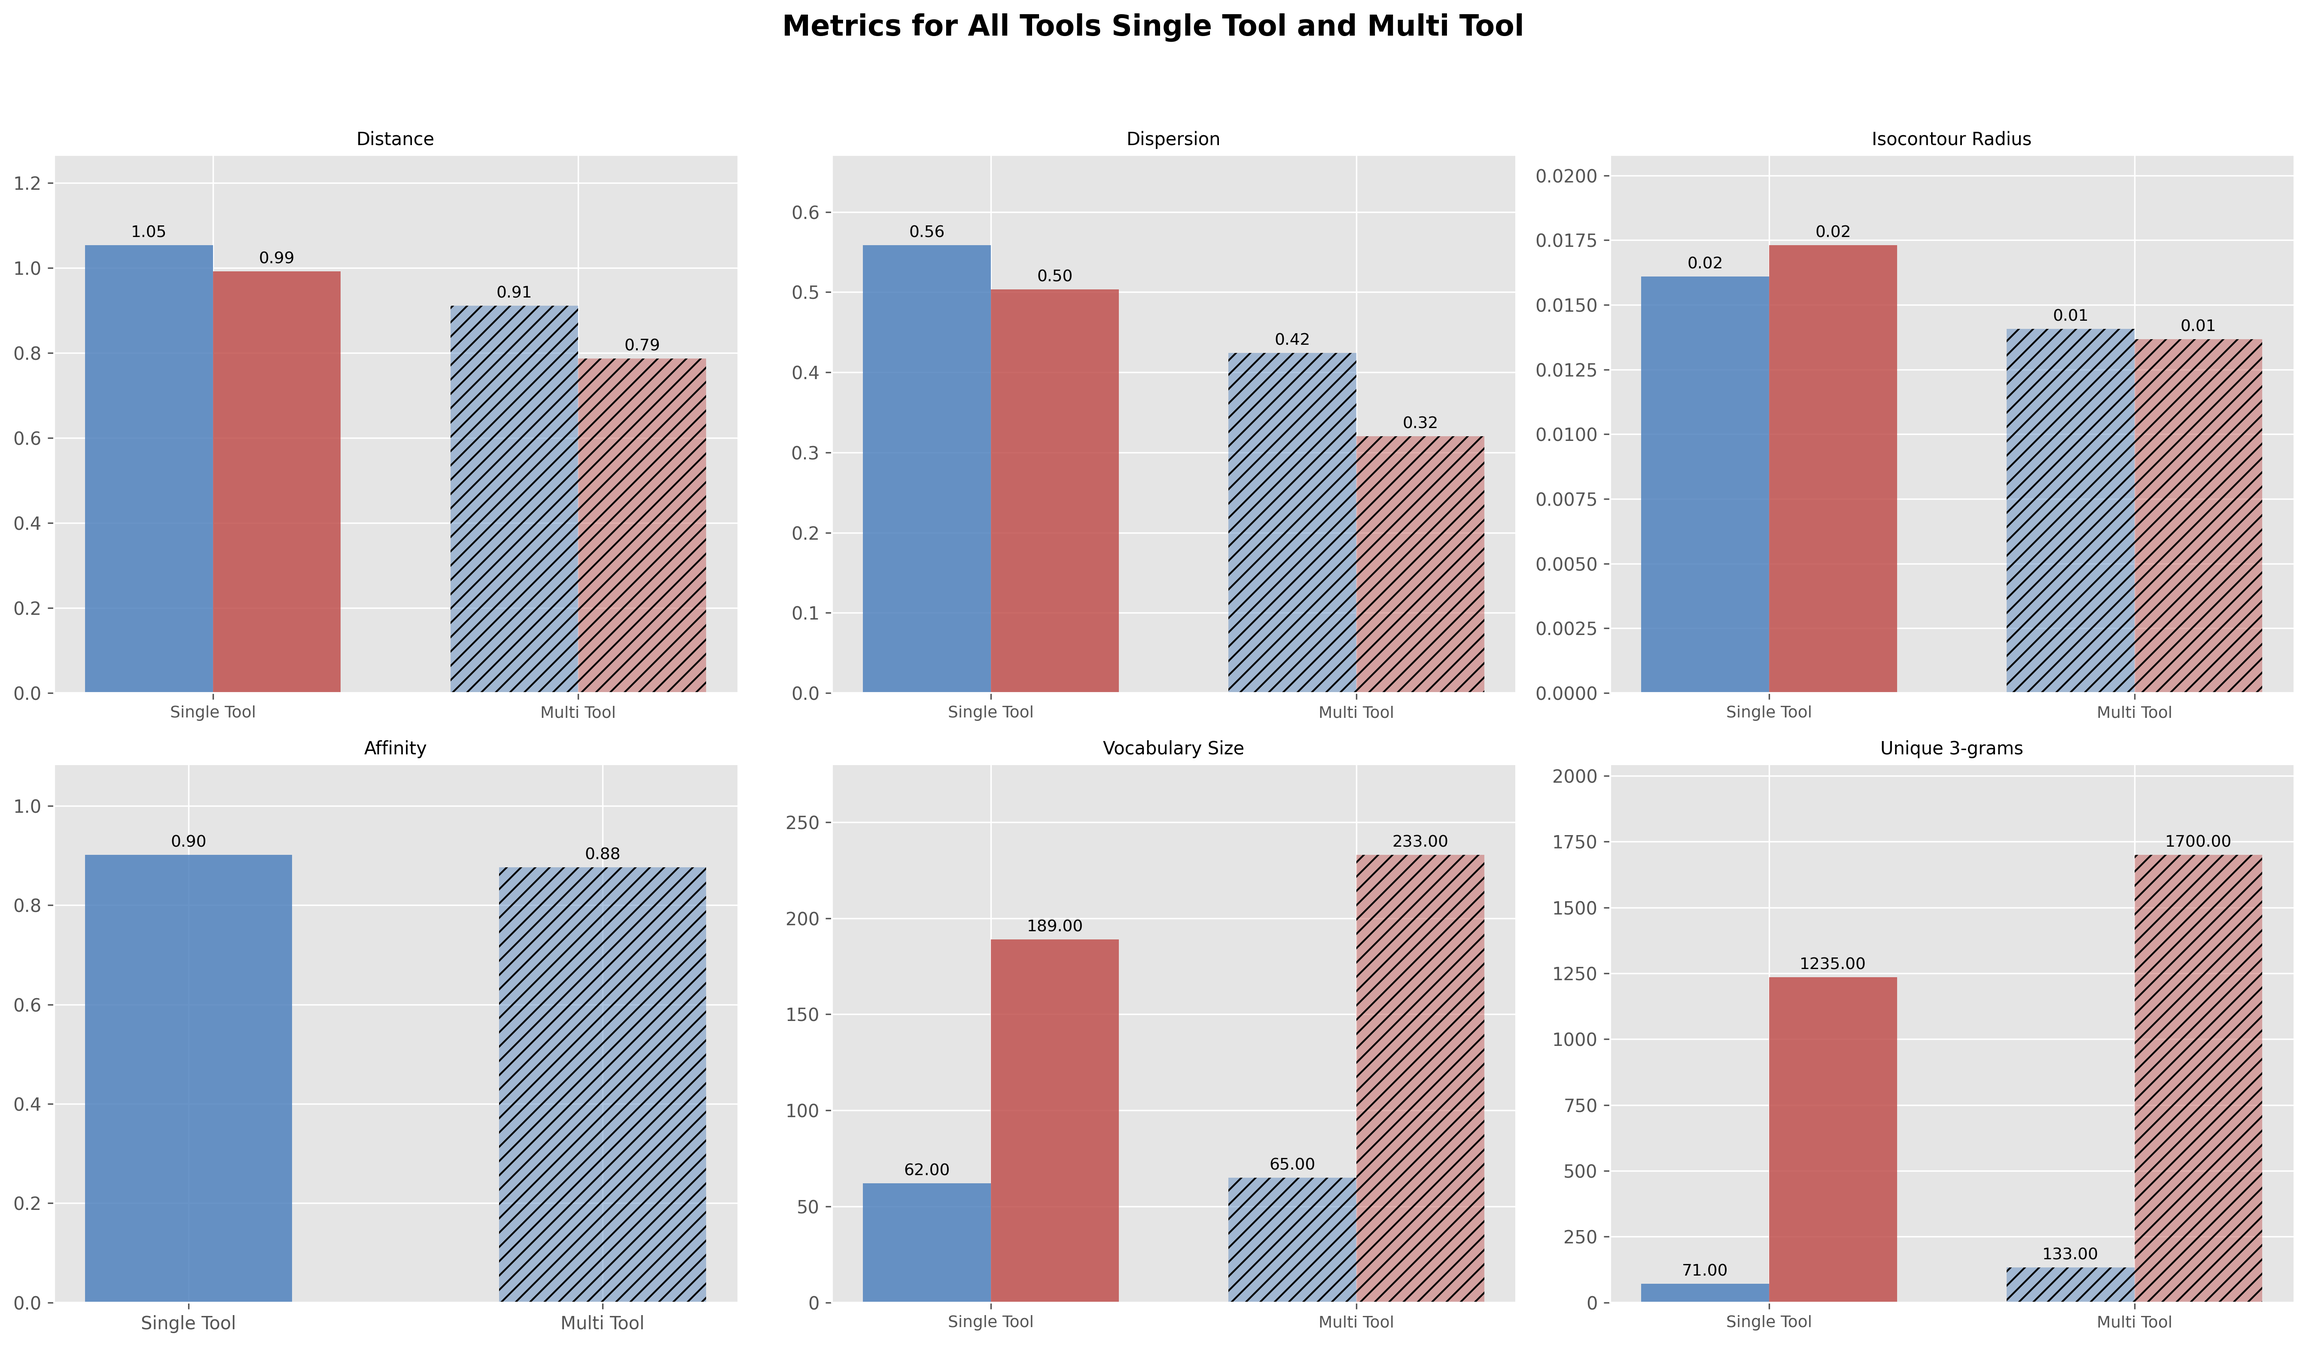
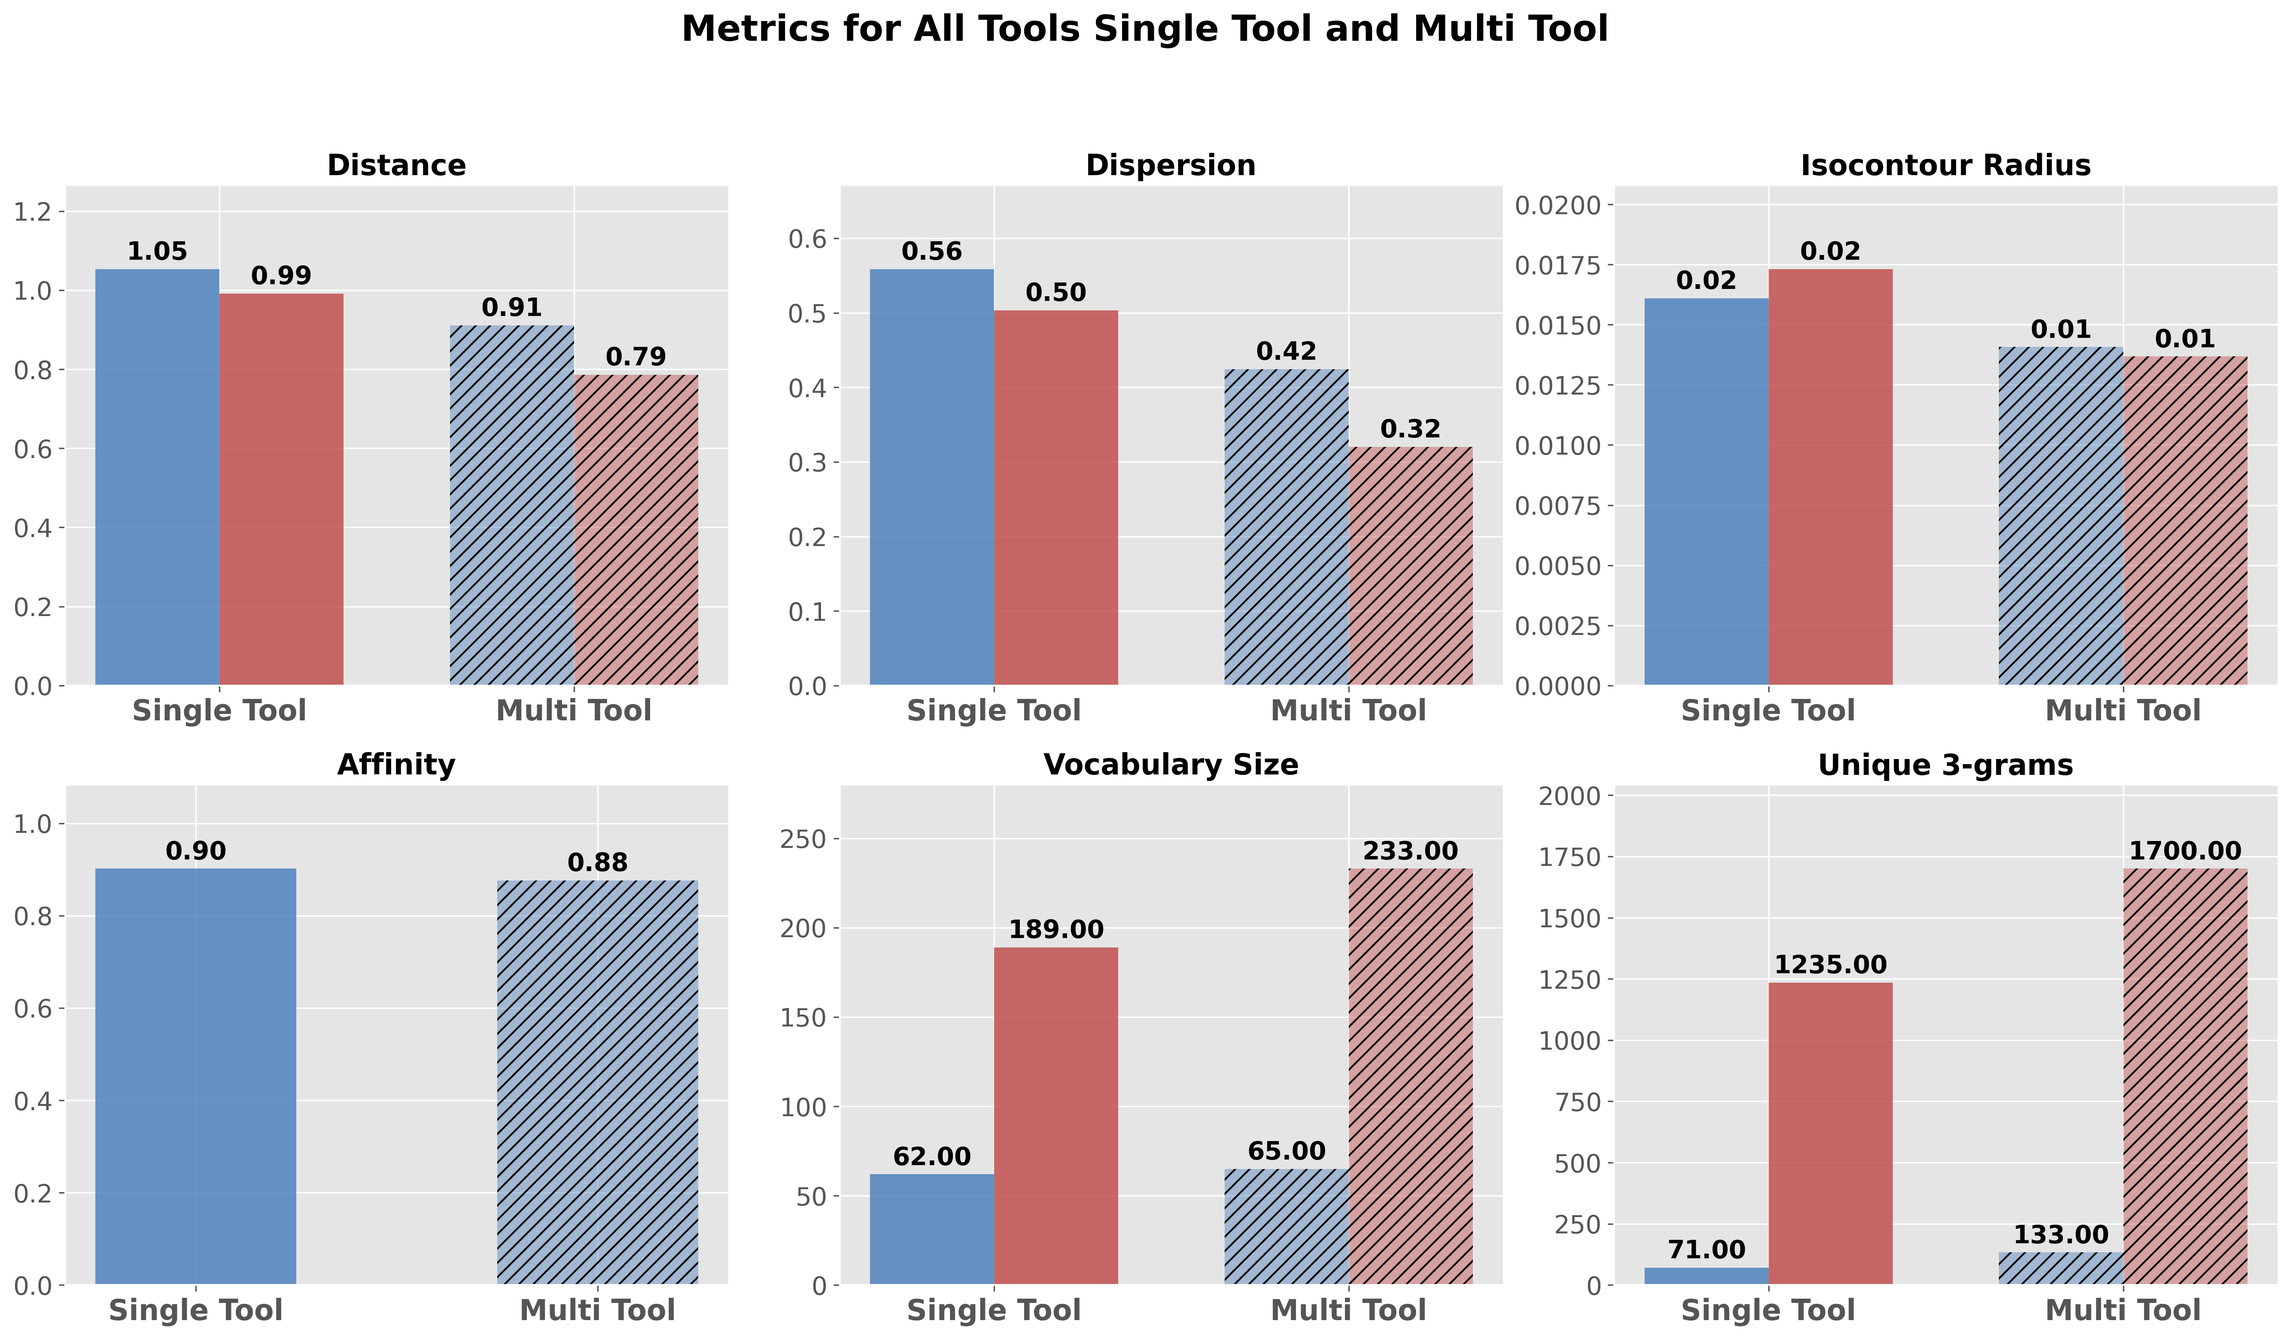
Feat: generalize the generation script, change the pictures layout

diff --git a/outputs/visualize_accuracy_comparison.py b/outputs/visualize_accuracy_comparison.py
@@ -1,0 +1,226 @@
+#!/usr/bin/env python3
+"""
+Comparison visualization script for agent accuracy progression
+Plots both regular dataset and seeds dataset on the same figure with different colors
+"""
+
+import json
+import re
+import matplotlib.pyplot as plt
+import numpy as np
+from pathlib import Path
+from typing import Dict, List, Tuple
+
+# Reuse the evaluator that understands how to score execution results
+try:
+    from evaluate_accuracy import evaluate_file
+except Exception:
+    # Fallback if relative import fails when run differently
+    import importlib.util as _ilu
+    _eval_path = Path(__file__).parent / "evaluate_accuracy.py"
+    _spec = _ilu.spec_from_file_location("evaluate_accuracy", str(_eval_path))
+    if _spec and _spec.loader:
+        _mod = _ilu.module_from_spec(_spec)
+        _spec.loader.exec_module(_mod)
+        evaluate_file = getattr(_mod, "evaluate_file")
+    else:
+        raise RuntimeError("Cannot import evaluate_accuracy.evaluate_file")
+
+def find_agent_files(is_seeds: bool = False) -> List[Tuple[int, Path]]:
+    """Find the latest result file for each agent1..agent7.
+    Args:
+        is_seeds: If True, look for seeds dataset files; otherwise regular dataset files
+    Returns a list of (agent_index, path) tuples ordered by agent index.
+    """
+    outputs_dir = Path(__file__).parent
+    results: List[Tuple[int, Path]] = []
+    
+    for i in range(1, 8):
+        if is_seeds:
+            # pattern like agent_execution_results_seeds_agent3_*.json
+            pattern = f"agent_execution_results_seeds_agent{i}_*.json"
+        else:
+            # pattern like agent_execution_results_agent3_*.json (not seeds)
+            pattern = f"agent_execution_results_agent{i}_*.json"
+        
+        matches = sorted(outputs_dir.glob(pattern))
+        
+        if not matches and not is_seeds:
+            # Try without timestamp fallback: agent_execution_results_agent{i}.json
+            fallback = outputs_dir / f"agent_execution_results_agent{i}.json"
+            if fallback.exists():
+                matches = [fallback]
+                
+        if matches:
+            # Pick the latest lexicographically (timestamped names are sortable)
+            latest = matches[-1]
+            results.append((i, latest))
+    
+    return results
+
+def get_agent_code_label(agent_index: int) -> str:
+    """Extract the commit code from the first line of the agent file.
+    Falls back to f"agent{index}" if not found.
+    """
+    agent_path = Path(__file__).parent.parent / "evaluation" / "agent_versions" / f"agent{agent_index}.py"
+    try:
+        with open(agent_path, 'r') as f:
+            first_line = f.readline().strip().strip('"').strip("'")
+        # Expect something like: code: abcdef1 ...
+        m = re.search(r"code:\s*([0-9a-fA-F]+)", first_line)
+        if m:
+            return m.group(1)
+    except Exception:
+        pass
+    return f"agent{agent_index}"
+
+def compute_agent_accuracies(is_seeds: bool = False) -> List[Tuple[str, float, int]]:
+    """Compute accuracies for latest agent1..agent7 result files.
+    Args:
+        is_seeds: If True, use seeds dataset files; otherwise use regular dataset files
+    Returns a list of (label, accuracy, agent_index) ordered by agent index.
+    """
+    found = find_agent_files(is_seeds)
+    results: List[Tuple[str, float, int]] = []
+    for idx, path in found:
+        label = get_agent_code_label(idx)
+        acc, _details = evaluate_file(path)
+        results.append((label, acc, idx))
+    return results
+
+def create_comparison_plot():
+    """Create a line chart showing agent index vs accuracy for both datasets."""
+    
+    # Get data for both datasets
+    regular_data = compute_agent_accuracies(is_seeds=False)
+    seeds_data = compute_agent_accuracies(is_seeds=True)
+    
+    if not regular_data and not seeds_data:
+        raise RuntimeError("No matching agent execution result files found in outputs/")
+    
+    # Sort by agent index and convert to separate lists
+    regular_data.sort(key=lambda x: x[2])
+    seeds_data.sort(key=lambda x: x[2])
+    
+    # Create the plot
+    plt.figure(figsize=(12, 8))
+    
+    # Plot regular dataset (if available)
+    if regular_data:
+        labels, accuracies, _indices = zip(*regular_data)
+        accuracies_pct = [a * 100 for a in accuracies]
+        x = np.arange(len(labels))
+        
+        line1 = plt.plot(x, accuracies_pct, marker='o', linestyle='-', 
+                        color='#1f77b4', linewidth=2, markersize=6, 
+                        label='Augmented Dataset', alpha=0.8)[0]
+        
+        # Add value labels
+        for xi, yi in zip(x, accuracies_pct):
+            plt.text(xi, yi + 1.5, f"{yi:.1f}%", ha='center', va='bottom', 
+                    fontsize=9, fontweight='bold', color='#1f77b4')
+    
+    # Plot seeds dataset (if available)
+    if seeds_data:
+        labels_seeds, accuracies_seeds, _indices_seeds = zip(*seeds_data)
+        accuracies_pct_seeds = [a * 100 for a in accuracies_seeds]
+        x_seeds = np.arange(len(labels_seeds))
+        
+        line2 = plt.plot(x_seeds, accuracies_pct_seeds, marker='s', linestyle='-', 
+                        color='#ff7f0e', linewidth=2, markersize=6, 
+                        label='Seeds Dataset', alpha=0.8)[0]
+        
+        # Add value labels
+        for xi, yi in zip(x_seeds, accuracies_pct_seeds):
+            plt.text(xi, yi - 3, f"{yi:.1f}%", ha='center', va='top', 
+                    fontsize=9, fontweight='bold', color='#ff7f0e')
+    
+    # Use the labels from whichever dataset we have (they should be the same)
+    if regular_data:
+        plt.xticks(x, labels, rotation=0)
+    elif seeds_data:
+        plt.xticks(x_seeds, labels_seeds, rotation=0)
+    
+    plt.title('Agent Accuracy by Version - Dataset Comparison', 
+              fontsize=14, fontweight='bold', pad=20)
+    plt.xlabel('Agent Version', fontsize=12)
+    plt.ylabel('Accuracy (%)', fontsize=12)
+    plt.ylim(0, 100)
+    plt.grid(axis='y', alpha=0.3, linestyle='--')
+    
+    # Add legend
+    plt.legend(loc='lower right', fontsize=11, framealpha=0.9)
+    
+    plt.tight_layout()
+
+    output_file = Path(__file__).parent / "agent_accuracy_comparison.png"
+    plt.savefig(output_file, dpi=300, bbox_inches='tight')
+    print(f"Comparison plot saved to: {output_file}")
+    plt.show()
+    
+    return regular_data, seeds_data
+
+def print_comparison_table():
+    """Print a formatted table comparing both datasets."""
+    regular_data = compute_agent_accuracies(is_seeds=False)
+    seeds_data = compute_agent_accuracies(is_seeds=True)
+    
+    # Sort by agent index
+    regular_data.sort(key=lambda x: x[2])
+    seeds_data.sort(key=lambda x: x[2])
+    
+    # Create dictionaries for easier lookup
+    regular_dict = {idx: (label, acc) for label, acc, idx in regular_data}
+    seeds_dict = {idx: (label, acc) for label, acc, idx in seeds_data}
+    
+    # Get all agent indices
+    all_indices = sorted(set(regular_dict.keys()) | set(seeds_dict.keys()))
+    
+    print("\n=== Agent Accuracy Comparison ===")
+    print(f"{'Agent':<12} {'Augmented Dataset':<15} {'Seeds Dataset':<15} {'Difference':<12}")
+    print("-" * 60)
+    
+    for idx in all_indices:
+        label = regular_dict.get(idx, ("", 0))[0] or seeds_dict.get(idx, ("", 0))[0] or f"agent{idx}"
+        regular_acc = regular_dict.get(idx, (None, None))[1]
+        seeds_acc = seeds_dict.get(idx, (None, None))[1]
+        
+        regular_str = f"{regular_acc*100:6.1f}%" if regular_acc is not None else "N/A"
+        seeds_str = f"{seeds_acc*100:6.1f}%" if seeds_acc is not None else "N/A"
+        
+        if regular_acc is not None and seeds_acc is not None:
+            diff = (seeds_acc - regular_acc) * 100
+            diff_str = f"{diff:+6.1f}%"
+        else:
+            diff_str = "N/A"
+        
+        print(f"{label:<12} {regular_str:<15} {seeds_str:<15} {diff_str:<12}")
+    
+    print("-" * 60)
+
+if __name__ == "__main__":
+    print("Creating agent accuracy comparison visualization...")
+    
+    try:
+        # Print comparison table
+        print_comparison_table()
+        
+        # Create comparison plot
+        regular_data, seeds_data = create_comparison_plot()
+        
+        print(f"\nVisualization complete!")
+        
+        if regular_data:
+            agents, accuracies = zip(*[(label, acc*100) for label, acc, _ in regular_data])
+            print(f"Augmented Dataset - Agents: {' → '.join(agents)}")
+            print(f"Augmented Dataset - Accuracies: {' → '.join([f'{acc:.1f}%' for acc in accuracies])}")
+        
+        if seeds_data:
+            agents_seeds, accuracies_seeds = zip(*[(label, acc*100) for label, acc, _ in seeds_data])
+            print(f"Seeds Dataset - Agents: {' → '.join(agents_seeds)}")
+            print(f"Seeds Dataset - Accuracies: {' → '.join([f'{acc:.1f}%' for acc in accuracies_seeds])}")
+        
+    except Exception as e:
+        print(f"Error creating visualization: {e}")
+        import traceback
+        traceback.print_exc()

diff --git a/dataset generation/visualize_metrics.py b/dataset generation/visualize_metrics.py
@@ -17,26 +17,33 @@ from pathlib import Path
 plt.style.use('ggplot')
 sns.set_palette('viridis')
 plt.rcParams['font.family'] = 'DejaVu Sans'
-plt.rcParams['font.size'] = 10
-plt.rcParams['axes.titlesize'] = 14
-plt.rcParams['axes.labelsize'] = 12
+plt.rcParams['font.size'] = 14  # Increased from 10
+plt.rcParams['axes.titlesize'] = 18  # Increased from 14
+plt.rcParams['axes.labelsize'] = 16  # Increased from 12
 
 # Output directory
 OUTPUT_DIR = Path(__file__).resolve().parent / "outputs"
 OUTPUT_DIR.mkdir(exist_ok=True)
 
 
-def load_data():
-    """Load the CSV data files"""
-    single_tool_path = OUTPUT_DIR / "single_tool_comparison.csv"
-    multi_tool_path = OUTPUT_DIR / "multi_tool_comparison.csv"
+def load_data(dataset_type="all"):
+    """Load the CSV data files for specified dataset type"""
+    if dataset_type == "uml":
+        single_tool_path = OUTPUT_DIR / "single_uml_tool_comparison.csv"
+        multi_tool_path = OUTPUT_DIR / "multi_uml_tool_comparison.csv"
+    elif dataset_type == "openrewrite":
+        single_tool_path = OUTPUT_DIR / "single_openRewrite_tool_comparison.csv"
+        multi_tool_path = OUTPUT_DIR / "multi_openRewrite_tool_comparison.csv"
+    else:  # all tools
+        single_tool_path = OUTPUT_DIR / "single_tool_comparison.csv"
+        multi_tool_path = OUTPUT_DIR / "multi_tool_comparison.csv"
     
     single_df = pd.read_csv(single_tool_path)
     multi_df = pd.read_csv(multi_tool_path)
     
     return single_df, multi_df
 
-def create_full_metric_comparison(single_df, multi_df):
+def create_full_metric_comparison(single_df, multi_df, dataset_label="All Tools"):
     metrics = [
         'Distance', 'Dispersion', 'Isocontour Radius',
         'Affinity', 'Vocabulary Size', 'Unique 3-grams'
@@ -76,12 +83,12 @@ def create_full_metric_comparison(single_df, multi_df):
                 bar.set_hatch(hatches[j])
                 # Value labels
                 ax.text(bar.get_x() + bar.get_width()/2, bar.get_height() + max(values)*0.01,
-                        f'{values[j]:.2f}', ha='center', va='bottom', fontsize=9)
+                        f'{values[j]:.2f}', ha='center', va='bottom', fontsize=14, fontweight='bold')  # Increased from 9
 
             ax.set_xticks([0, 1])
-            ax.set_xticklabels(labels)
+            ax.set_xticklabels(labels, fontsize=16, fontweight='bold')  # Increased from 14 and added bold
             ax.set_ylim(0, max(values) * 1.2)
-            ax.set_title(metric, fontsize=10)
+            ax.set_title(metric, fontsize=16, fontweight='bold')  # Increased from 10
             ax.spines[['top', 'right']].set_visible(False)
 
         else:
@@ -104,47 +111,46 @@ def create_full_metric_comparison(single_df, multi_df):
                 # Value labels
                 if not np.isnan(values[j]):
                     ax.text(bar.get_x() + bar.get_width()/2, bar.get_height() + max(values)*0.01,
-                            f'{values[j]:.2f}', ha='center', va='bottom', fontsize=9)
+                            f'{values[j]:.2f}', ha='center', va='bottom', fontsize=14, fontweight='bold')  # Increased from 9
                 else:
                     ax.text(bar.get_x() + bar.get_width()/2, max(values)*0.01,
-                            'N/A', ha='center', va='bottom', fontsize=9, color='#cccccc', fontstyle='italic')
+                            'N/A', ha='center', va='bottom', fontsize=14, color='#cccccc', fontstyle='italic')  # Increased from 9
 
             ax.set_xticks([0.175, 1.175])
-            ax.set_xticklabels(['Single Tool', 'Multi Tool'], fontsize=9)
+            ax.set_xticklabels(['Single Tool', 'Multi Tool'], fontsize=16, fontweight='bold')  # Increased from 14 and added bold
             ax.set_ylim(0, np.nanmax(values) * 1.2)
-            ax.set_title(metric, fontsize=10)
+            ax.set_title(metric, fontsize=16, fontweight='bold')  # Increased from 10
             ax.spines[['top', 'right']].set_visible(False)
 
-    # Determine dataset type from CSV filename
-    import re
-    def get_dataset_label(path):
-        fname = str(path).lower()
-        if 'openrewrite' in fname:
-            return 'OpenRewrite'
-        if 'uml' in fname:
-            return 'UML'
-        if 'table' in fname:
-            return 'Table'
-        if 'all' in fname:
-            return 'All Tools'
-        return 'All Tools'
-
-    # Get the label from the loaded CSVs
-    single_label = get_dataset_label(single_df.attrs.get('filepath_or_buffer', OUTPUT_DIR / 'single_tool_comparison.csv'))
-    multi_label = get_dataset_label(multi_df.attrs.get('filepath_or_buffer', OUTPUT_DIR / 'multi_tool_comparison.csv'))
-    # Compose a title
-    dataset_title = f"Metrics for {single_label} Single Tool and Multi Tool"
-    fig.suptitle(dataset_title, fontsize=16, fontweight='bold', y=1.04)
+    # Compose a title using the passed dataset label
+    dataset_title = f"Metrics for {dataset_label} Single Tool and Multi Tool"
+    fig.suptitle(dataset_title, fontsize=20, fontweight='bold', y=1.04)  # Increased from 16
     plt.tight_layout()
-    plt.savefig(f"metric_{single_label}_comparison_final.png", dpi=300, bbox_inches='tight')
+    plt.savefig(f"metric_{dataset_label}_comparison_final.png", dpi=300, bbox_inches='tight')
 
 
 def create_summary_dashboard():
     """Generate all visualizations in a single dashboard"""
-    single_df, multi_df = load_data()
-    create_full_metric_comparison(single_df, multi_df)
-    print("✅ All 6-metric visualizations created successfully!")
-    print(f"📁 Output saved to: {OUTPUT_DIR}")
+    
+    # Generate graphs for all three dataset types
+    datasets = [
+        ("all", "All Tools"),
+        ("uml", "UML"), 
+        ("openrewrite", "OpenRewrite")
+    ]
+    
+    for dataset_type, dataset_label in datasets:
+        try:
+            print(f"Generating visualization for {dataset_label}...")
+            single_df, multi_df = load_data(dataset_type)
+            create_full_metric_comparison(single_df, multi_df, dataset_label)
+            print(f"{dataset_label} visualization created successfully!")
+        except FileNotFoundError as e:
+            print(f"Skipping {dataset_label}: {e}")
+        except Exception as e:
+            print(f"Error creating {dataset_label} visualization: {e}")
+    
+    print(f"All outputs saved to: {OUTPUT_DIR}")
 
 
 if __name__ == "__main__":
